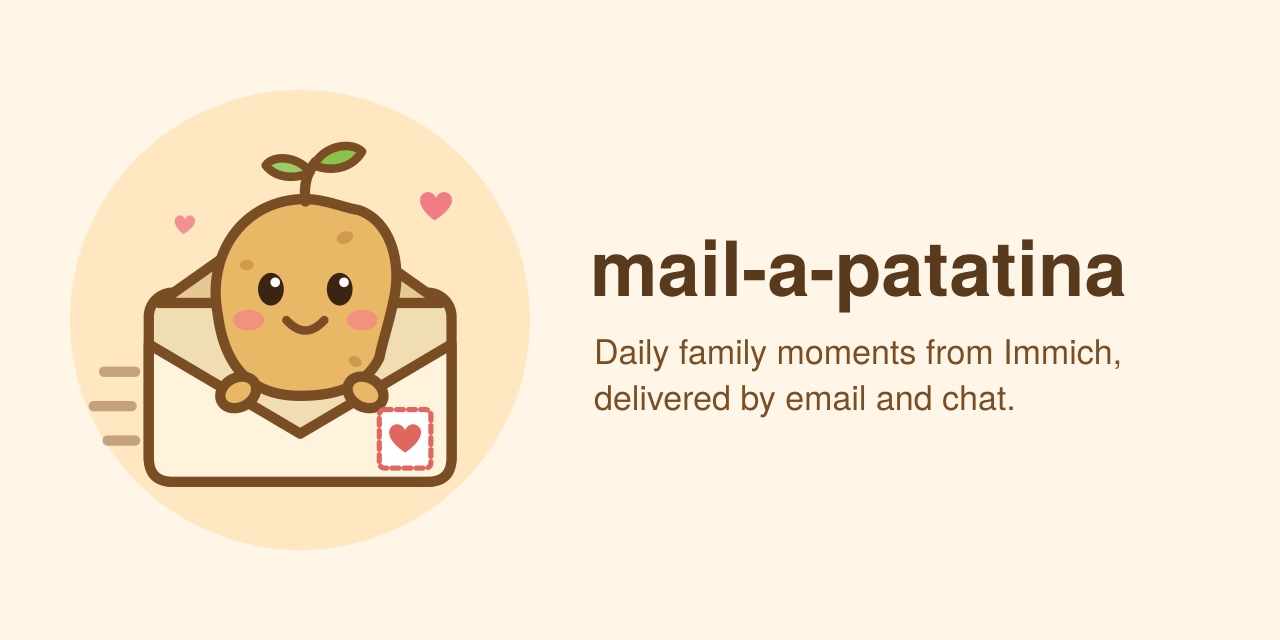
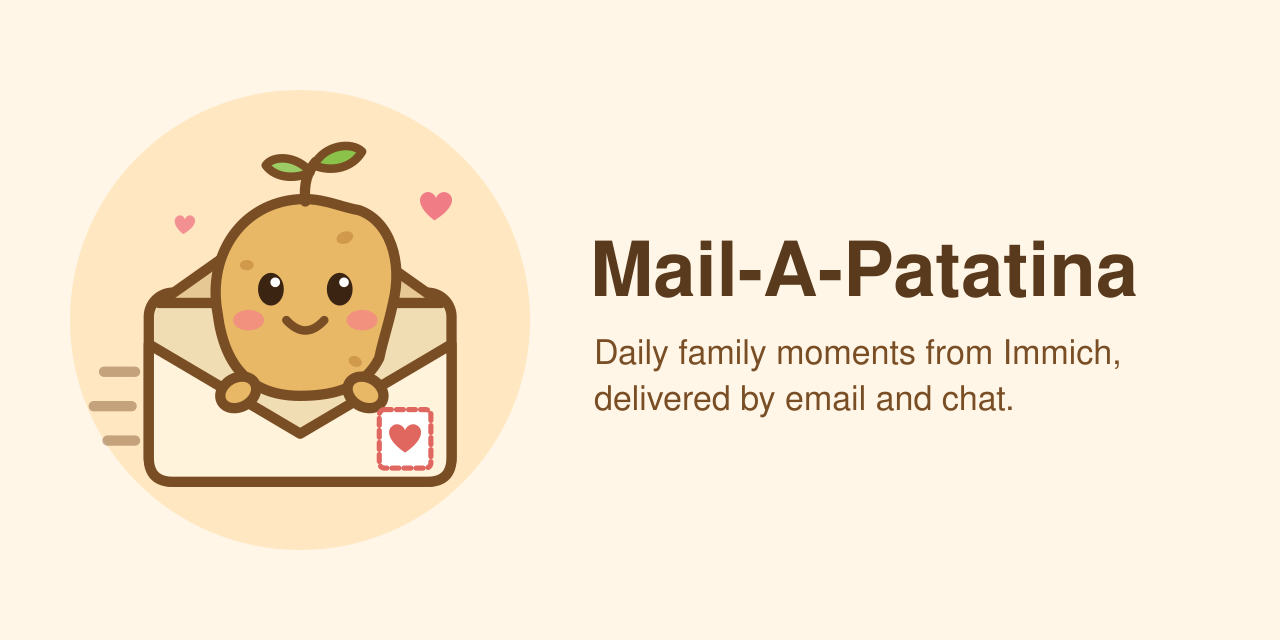
slight naming chnage

diff --git a/mail_a_patatina/templates/setup/new_key.html b/mail_a_patatina/templates/setup/new_key.html
@@ -3,7 +3,7 @@
 {% block content %}
 <p class="steps"><b>1. Connect Immich</b> · 2. Album &amp; rules · 3. People &amp; chats</p>
 <h1>Connect your Immich album</h1>
-<p>mail-a-patatina reads your album and marks which photos it has sent, with a key you create in Immich. It never sees your password.</p>
+<p>Mail-A-Patatina reads your album and marks which photos it has sent, with a key you create in Immich. It never sees your password.</p>
 <ol class="guide">
   <li>Open <a href="{{ s.immich_public_url }}/user-settings?isOpen=api-keys" target="_blank" rel="noopener">Immich → Account settings → API keys</a> and choose <b>New API key</b>.</li>
   <li>Name it <code>mail-a-patatina</code>.</li>

diff --git a/mail_a_patatina/templates/setup/new_album.html b/mail_a_patatina/templates/setup/new_album.html
@@ -4,7 +4,7 @@
 <p class="steps">1. Connect Immich ✓ · <b>2. Album &amp; rules</b> · 3. People &amp; chats</p>
 <h1>Which album, and when?</h1>
 {% if not albums %}
-<p>You don't own any album that isn't shared through mail-a-patatina already. Create one in Immich, then <a href="/setup/new/album">reload</a>.</p>
+<p>You don't own any album that isn't shared through Mail-A-Patatina already. Create one in Immich, then <a href="/setup/new/album">reload</a>.</p>
 {% else %}
 <form method="post" action="/setup/new" class="stack">
   <input type="hidden" name="csrf" value="{{ session.csrf }}">

diff --git a/mail_a_patatina/templates/setup/layout.html b/mail_a_patatina/templates/setup/layout.html
@@ -1,5 +1,5 @@
 {% extends "base.html" %}
-{% block title %}{% block page_title %}Set up{% endblock %} · mail-a-patatina{% endblock %}
+{% block title %}{% block page_title %}Set up{% endblock %} · Mail-A-Patatina{% endblock %}
 {% block nav %}{% if session %}
 <nav class="setup-nav">
   <a href="/setup/">Your feeds</a>

diff --git a/mail_a_patatina/__main__.py b/mail_a_patatina/__main__.py
@@ -22,7 +22,7 @@ from .whatsapp import Gateway
 MANUAL_SWITCH = (
     "Switch it on for a moment (Administration → Settings → Authentication settings → Password login), run this "
     "command again, then switch it off again. Or give IMMICH_ADMIN_API_KEY the permissions adminConfig.read and "
-    "adminConfig.update, and mail-a-patatina will do this itself."
+    "adminConfig.update, and Mail-A-Patatina will do this itself."
 )
 log = logging.getLogger("mail_a_patatina.setup")
 
@@ -61,7 +61,7 @@ async def password_login(admin: Immich) -> AsyncIterator[None]:
 async def add_account(
     core: Core, feed: Feed, name: str, email: str, role: str, adopt: bool, wants_email: bool
 ) -> Member:
-    """Create (or adopt) an Immich account, share the feed's album with it, and give mail-a-patatina its own
+    """Create (or adopt) an Immich account, share the feed's album with it, and give Mail-A-Patatina its own
     narrowly scoped API key for it (saved to KEYS_FILE). Needs IMMICH_ADMIN_API_KEY, and password login
     switched on in Immich while this runs (done automatically if the admin key may change settings)."""
     s = core.settings
@@ -102,7 +102,7 @@ async def _setup_account(
             session = await Immich.login(s.immich_url, email, password)
         except LoginFailed:
             raise SystemExit(
-                f"{email} already has an Immich account. Re-run with --adopt to let mail-a-patatina manage it "
+                f"{email} already has an Immich account. Re-run with --adopt to let Mail-A-Patatina manage it "
                 "(this resets its password, so its owner can't sign in to Immich with the old one)."
             ) from None
         user = await admin.admin_update_user(existing["id"], name=immich_name, quotaSizeInBytes=0)
@@ -172,8 +172,8 @@ async def unused_accounts(core: Core) -> list[str]:
 
 async def forget(core: Core, email: str) -> None:
     """Delete the Immich account of a relative no family needs anymore, and its key. Only accounts
-    mail-a-patatina created (named with USER_PREFIX), and only if no album at all is shared with them,
-    including albums outside mail-a-patatina."""
+    Mail-A-Patatina created (named with USER_PREFIX), and only if no album at all is shared with them,
+    including albums outside Mail-A-Patatina."""
     s = core.settings
     email = email.strip().lower()
     if not s.admin_api_key:
@@ -189,7 +189,7 @@ async def forget(core: Core, email: str) -> None:
             print(f"{email} has no Immich account (anymore). Its key, if any, is removed.")
             return
         if not s.user_prefix or not user["name"].startswith(s.user_prefix):
-            raise SystemExit(f"{email} (“{user['name']}”) wasn't created by mail-a-patatina, so it isn't deleted here. "
+            raise SystemExit(f"{email} (“{user['name']}”) wasn't created by Mail-A-Patatina, so it isn't deleted here. "
                              "Delete it in Immich yourself if you mean to.")
         # Only the person themselves can list the albums shared with them.
         async with password_login(admin):

diff --git a/mail_a_patatina/setup.py b/mail_a_patatina/setup.py
@@ -187,7 +187,7 @@ async def logout(request: Request, csrf: str = Form()):
 
 def page(request: Request, template: str, session: SetupSession | None, status: int = 200, **ctx) -> HTMLResponse:
     s = settings(request)
-    ctx |= {"session": session, "viewer": None, "site_title": "mail-a-patatina", "base": "/setup", "like": LIKE,
+    ctx |= {"session": session, "viewer": None, "site_title": "Mail-A-Patatina", "base": "/setup", "like": LIKE,
             "s": s, "oidc": bool(s.oidc_issuer)}
     return templates.TemplateResponse(request, template, ctx, status_code=status)
 
@@ -752,6 +752,6 @@ async def notify_install_admins(request: Request, subject: str, command: str = A
         return
     body = f"{subject}.\n\nOn the server, run:\n  {command}\n"
     try:
-        await mailer.send(s, mailer.build_simple(s.smtp_from, s.install_admin_emails, f"mail-a-patatina: {subject}", body))
+        await mailer.send(s, mailer.build_simple(s.smtp_from, s.install_admin_emails, f"Mail-A-Patatina: {subject}", body))
     except Exception:
         log.exception("Could not notify the installation admin")

diff --git a/mail_a_patatina/store.py b/mail_a_patatina/store.py
@@ -53,7 +53,7 @@ class FeedStore:
         tmp = path.with_suffix(".tmp")
         fd = os.open(tmp, os.O_WRONLY | os.O_CREAT | os.O_TRUNC, 0o600)
         with os.fdopen(fd, "w", encoding="utf-8") as fh:
-            fh.write("# Written by the mail-a-patatina setup page. Contains an API key: keep private.\n")
+            fh.write("# Written by the Mail-A-Patatina setup page. Contains an API key: keep private.\n")
             yaml.safe_dump(raw, fh, sort_keys=False, allow_unicode=True)
         tmp.replace(path)
 

diff --git a/mail_a_patatina/web.py b/mail_a_patatina/web.py
@@ -189,7 +189,7 @@ def render(request: Request, template: str, viewer: Viewer | None, status: int =
     feed = viewer.feed if viewer else ctx.pop("feed", None)
     ctx |= {
         "viewer": viewer, "like": LIKE,
-        "site_title": feed.cfg.title if feed else "mail-a-patatina",
+        "site_title": feed.cfg.title if feed else "Mail-A-Patatina",
         "base": f"/{feed.id}" if feed else "",
     }
     return templates.TemplateResponse(request, template, ctx, status_code=status)

diff --git a/README.md b/README.md
@@ -1,13 +1,13 @@
 <p align="center"><img src="assets/logo.svg" alt="A little potato peeking out of an envelope" width="180"></p>
 
-<h1 align="center">mail-a-patatina</h1>
+<h1 align="center">Mail-A-Patatina</h1>
 
 A self-hosted, ad-free take on Tinybeans for [Immich](https://immich.app). Each morning, relatives get an email with the photos you tagged for sending in a shared Immich album. They tap ❤ or comment without passwords, and every like and comment lands in Immich under their own name. The same moments can also go to WhatsApp, Signal or Telegram chats.
 
-mail-a-patatina only **transports, presents and collects**. It has no database: everything it knows comes from, or is written back to, Immich.
+Mail-A-Patatina only **transports, presents and collects**. It has no database: everything it knows comes from, or is written back to, Immich.
 
 ```
-             Immich = the single source of truth                 mail-a-patatina (stateless)
+             Immich = the single source of truth                 Mail-A-Patatina (stateless)
  ┌────────────────────────────────────────────────────────┐     ┌──────────────────────────────┐
  │ album "Family Feed"                                    │     │ daily email (your SMTP)      │
  │   photos tagged "Patatina" + description ──────────────┼────►│ WhatsApp / Signal / Telegram │
@@ -37,7 +37,7 @@ mail-a-patatina only **transports, presents and collects**. It has no database: 
 
 Tags belong to one user in Immich, and only a photo's owner can tag it. A co-parent tags their own photos with their own tag of the same name. Nested tags like `Family/Patatina` match too.
 
-**Relatives are Immich users.** Each relative gets a viewer-only Immich account that the album is shared with. When it's set up, `add-relative` creates an API key *for that account* that can only like, comment, take back its own like or comment, and read or change its email setting. It saves the key in `./secrets/relatives.yml`. mail-a-patatina uses that key to like and comment as the person, so their ❤ and comments show up natively in your Immich app, and your replies in Immich appear on their page too. Relatives never need to know their account exists. This works on OAuth-only servers too: `add-relative` switches password login on for the few seconds it needs, because signing in once is the only way Immich lets anyone create a key for a user.
+**Relatives are Immich users.** Each relative gets a viewer-only Immich account that the album is shared with. When it's set up, `add-relative` creates an API key *for that account* that can only like, comment, take back its own like or comment, and read or change its email setting. It saves the key in `./secrets/relatives.yml`. Mail-A-Patatina uses that key to like and comment as the person, so their ❤ and comments show up natively in your Immich app, and your replies in Immich appear on their page too. Relatives never need to know their account exists. This works on OAuth-only servers too: `add-relative` switches password login on for the few seconds it needs, because signing in once is the only way Immich lets anyone create a key for a user.
 
 **Magic links.** Every link in the email signs the relative in, using an HMAC-signed token checked against the album's member list:
 - Tapping ❤ in the email likes the photo. Tapping it again on the page takes the like back, and relatives can delete their own comments.
@@ -57,7 +57,7 @@ Tags belong to one user in Immich, and only a photo's owner can tag it. A co-par
 **What gets sent.** Each photo is marked in Immich when it's sent to each recipient and chat:
 - Failed sends are retried at the next run.
 - Someone newly added to the album catches up on the last `RESEND_HOURS` (default 48).
-- When mail-a-patatina first starts on an album, photos already there count as backlog: they show on the website but aren't sent (`SEND_BACKLOG=true` sends them).
+- When Mail-A-Patatina first starts on an album, photos already there count as backlog: they show on the website but aren't sent (`SEND_BACKLOG=true` sends them).
 - `SEND_MODE=drip` sends one photo per day from the queue instead of a digest.
 
 ## Self-service setup
@@ -74,7 +74,7 @@ Everyone who can sign in to Immich can set up their own family feed at `PUBLIC_U
    - Add relatives by name and email.
    - Add co-parents by pasting a key they created in their own Immich account.
    - Remove a relative: takes them out of the album, since its members are who gets the emails. Their Immich account stays; the admin can delete it.
-   - Remove a co-parent: mail-a-patatina forgets their key and stops sending their photos. Their access to the album in Immich isn't touched.
+   - Remove a co-parent: Mail-A-Patatina forgets their key and stops sending their photos. Their access to the album in Immich isn't touched.
    - **WhatsApp:** link a WhatsApp account of the family's own, by scanning a QR code or typing a pairing code on the phone, like WhatsApp Web. Moments are posted from that account, and its groups are offered to pick from. Use a spare number rather than a personal one, because the server holds the session.
    - **Signal:** add the installation's number to the group and type the group's exact name. The page never lists the number's groups, because those include other families' groups.
    - **Telegram:** add the installation's bot and enter the group's chat id.
@@ -84,7 +84,7 @@ Everyone who can sign in to Immich can set up their own family feed at `PUBLIC_U
 - **The admin is told:** a family's request shows up as "waiting for approval", and `INSTALL_ADMIN_EMAILS` gets an email.
 - **One command approves:** the admin runs `approve`, which creates the accounts as before, with the `patatina-` prefix, no upload quota and their own narrow key.
 - **Then they're live:** the relative appears as "ready" on the setup page and is in the next morning's email. The same goes for the group-chat account a feed needs once a chat is connected.
-- **Removed relatives keep their account** until the admin deletes it. When a family removes someone who is then in no family's album, `INSTALL_ADMIN_EMAILS` gets an email with the command. `forget` deletes the account only if no album at all is shared with it (it signs in as the person to check, so albums shared outside mail-a-patatina count too), and only accounts with the `patatina-` prefix. Immich purges it after its deletion delay, together with the person's old likes and comments. `pending` also lists such accounts.
+- **Removed relatives keep their account** until the admin deletes it. When a family removes someone who is then in no family's album, `INSTALL_ADMIN_EMAILS` gets an email with the command. `forget` deletes the account only if no album at all is shared with it (it signs in as the person to check, so albums shared outside Mail-A-Patatina count too), and only accounts with the `patatina-` prefix. Immich purges it after its deletion delay, together with the person's old likes and comments. `pending` also lists such accounts.
 
 ```sh
 docker compose run --rm -e IMMICH_ADMIN_API_KEY app python -m mail_a_patatina pending
@@ -98,7 +98,7 @@ docker compose run --rm -e IMMICH_ADMIN_API_KEY app python -m mail_a_patatina fo
 ### Pocket ID (or any OIDC provider)
 
 In Pocket ID, add an OIDC client:
-- **Name:** `mail-a-patatina`
+- **Name:** `Mail-A-Patatina`
 - **Callback URL:** `https://<your PUBLIC_URL>/setup/callback`
 - **Optional:** under *allowed user groups*, limit it to the group that may use Immich.
 
@@ -106,7 +106,7 @@ Put its client id and secret into `OIDC_CLIENT_ID` and `OIDC_CLIENT_SECRET`, and
 
 ## Several families on one installation
 
-One mail-a-patatina can serve several Immich users who don't know each other. Families usually set themselves up on the setup page (above); the admin can also define them in a file. Each family is a **feed**: one album, its owner's API key, its own title, send time, timezone, chats and bot account, listed in `config/feeds.yml` (see `feeds.example.yml`). With a single family you can skip that file and put `ALBUM_ID` and `IMMICH_API_KEY` in `.env`.
+One Mail-A-Patatina can serve several Immich users who don't know each other. Families usually set themselves up on the setup page (above); the admin can also define them in a file. Each family is a **feed**: one album, its owner's API key, its own title, send time, timezone, chats and bot account, listed in `config/feeds.yml` (see `feeds.example.yml`). With a single family you can skip that file and put `ALBUM_ID` and `IMMICH_API_KEY` in `.env`.
 
 How families are kept apart:
 - **Separate pages:** each family's pages live under `PUBLIC_URL/<feed id>/`, and the sign-in cookie only applies to that path.
@@ -114,7 +114,7 @@ How families are kept apart:
 - **Every request is checked against one album:** photos, likes and comments are only served if they belong to that feed's album, through that album owner's key.
 - **Separate emails:** a grandma who is in two families' albums has one Immich account, gets two separate emails and has two separate links. Unsubscribing is her own Immich email setting, so it stops both.
 
-Because the families' API keys sit in `config/feeds.yml`, whoever runs mail-a-patatina can read those families' libraries. In practice that's the Immich admin, who can see everything on the server anyway.
+Because the families' API keys sit in `config/feeds.yml`, whoever runs Mail-A-Patatina can read those families' libraries. In practice that's the Immich admin, who can see everything on the server anyway.
 
 ## Installation (admin)
 
@@ -130,7 +130,7 @@ The admin only sets up the installation; families do the rest on the setup page.
 2. **Admin key for approvals** (`IMMICH_ADMIN_API_KEY`): `adminUser.read`, `adminUser.create`, `adminUser.update`, and `adminUser.delete` for `forget`.
    - **Pass it only to the commands that need it, never in `.env`:** `docker compose run --rm -e IMMICH_ADMIN_API_KEY app python -m mail_a_patatina approve`.
    - **OAuth-only Immich servers:** add `adminConfig.read` and `adminConfig.update`. Password login has to be on while an account gets its key, and `approve` switches it on for those few seconds and off again, even if something fails. Without those two permissions, or if your Immich settings come from a config file, it tells you to switch it yourself under *Administration → Settings → Authentication settings*.
-   - **Delete rights, all narrow:** the relatives' `activity.delete` takes back their own like or comment; the album owner's `albumUser.delete` takes a relative out of the album; the admin key's `adminUser.delete` is only used by `forget`, on accounts mail-a-patatina created.
+   - **Delete rights, all narrow:** the relatives' `activity.delete` takes back their own like or comment; the album owner's `albumUser.delete` takes a relative out of the album; the admin key's `adminUser.delete` is only used by `forget`, on accounts Mail-A-Patatina created.
    - **What approved accounts look like:** they appear in Immich as `patatina-Oma Erika` (`USER_PREFIX`). Their storage quota is 0, so they can't upload anything, and their API key can't either. Immich's own album emails are switched off for them, so nobody gets two.
 3. **Reverse proxy:** expose only port 8080, with HTTPS (Caddy, Traefik, nginx…), and set `PUBLIC_URL` to that address. Immich itself never has to be reachable from the internet, because images and videos are proxied.
 4. **Email delivery:** make sure the sending domain has SPF, DKIM and DMARC set up, or the morning email lands in spam.
@@ -198,7 +198,7 @@ docker compose run --rm -e IMMICH_ADMIN_API_KEY app python -m mail_a_patatina --
 
 ## Keep in mind
 
-- **Back up `./secrets` like `.env`.** If the keys are lost, run `add-relative` again for each relative, with password login switched on for a moment. You can see and revoke each key in Immich under the relative's account (*API keys → mail-a-patatina*).
+- **Back up `./secrets` like `.env`.** If the keys are lost, run `add-relative` again for each relative, with password login switched on for a moment. You can see and revoke each key in Immich under the relative's account (*API keys → Mail-A-Patatina*).
 - **`SECRET_KEY`:** it signs the magic links. It also derives the relatives' passwords, which are only used while `add-relative` runs. If you change it, `add-relative` needs `--adopt` for existing relatives.
 - **Immich's own emails:** if Immich's own SMTP is set up, it may still email album *invites*. `add-relative` turns off album update emails for managed accounts, and invites aren't sent because accounts are created with `notify: false`.
 - **Removing a relative:** remove them from the album (their link stops working). Delete the Immich account if you like; their likes and comments go with it.
